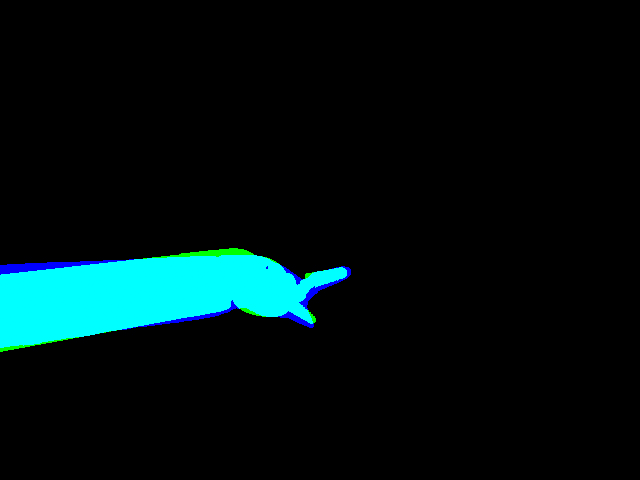
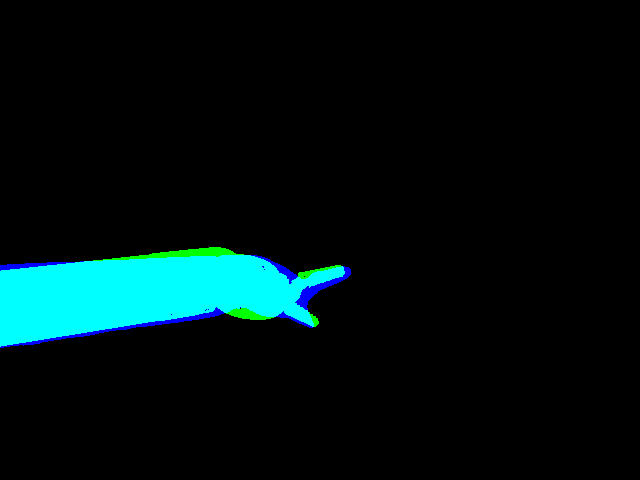
Integrate DHT loss into tracking

diff --git a/diffcali/eval_dvrk/trackers.py b/diffcali/eval_dvrk/trackers.py
@@ -15,6 +15,7 @@ from diffcali.utils.cylinder_projection_utils import (
     transform_points_b,
 )
 from diffcali.utils.detection_utils import detect_lines
+from diffcali.utils.dht_utils import DeepCylinderLoss
 
 from evotorch import Problem, SolutionBatch
 from evotorch.algorithms import SNES, XNES, CMAES
@@ -25,12 +26,13 @@ torch.set_default_dtype(torch.float32)
 
 
 # Loss settings
+USE_PTS_LOSS = True  # whether to use keypoint loss
+USE_CYD_LOSS = True # whether to use cylinder loss
+USE_DHT_LOSS = True and not USE_CYD_LOSS # whether to use DHT loss (if cylinder loss is not used)
+
 MSE_WEIGHT = 10.0  # weight for the MSE loss
 PTS_WEIGHT = 1e-2  # weight for the keypoint loss
-CYD_WEIGHT = 1e-2  # weight for the cylinder loss
-
-USE_PTS_LOSS = True  # whether to use keypoint loss
-USE_CYD_LOSS = False  # whether to use cylinder loss
+CYD_WEIGHT = 1e-1 if USE_DHT_LOSS else 1e-2 # weight for the cylinder loss
 
 
 def keypoint_loss_batch(keypoints_a, keypoints_b):
@@ -480,6 +482,7 @@ class PoseEstimationProblem(Problem):
 
         self.kpts_loss = USE_PTS_LOSS
         self.cylinder_loss = USE_CYD_LOSS
+        self.dht_loss = USE_DHT_LOSS
 
         self.mse_weight = MSE_WEIGHT  # weight for the MSE loss
         self.pts_weight = PTS_WEIGHT  # weight for the keypoint loss
@@ -612,6 +615,7 @@ class SimplePoseEstimationProblem(PoseEstimationProblem):
         super().__init__(model, robot_renderer, ref_mask, intr, p_local1, p_local2)
 
         self.joint_angles = joint_angles
+        self.DHT_loss = DeepCylinderLoss(img_size=(480, 640)) if self.dht_loss else None
 
     def update_problem(self, ref_mask, ref_keypoints, det_line_params, joint_angles):
         """
@@ -621,6 +625,11 @@ class SimplePoseEstimationProblem(PoseEstimationProblem):
         self.ref_keypoints = ref_keypoints
         self.det_line_params = det_line_params
         self.joint_angles = joint_angles
+
+        # Update the DHT loss with the reference mask
+        if self.dht_loss:
+            mask = ref_mask.repeat(3, 1, 1).unsqueeze(0)
+            self.DHT_loss.update_heatmap(mask)
 
         # Compute the robot mesh once and store it since the joint angles are fixed.
         self.verts, self.faces = self.robot_renderer.get_robot_verts_and_faces(joint_angles)
@@ -692,6 +701,31 @@ class SimplePoseEstimationProblem(PoseEstimationProblem):
                 radius,
             )  
 
+        elif self.dht_loss:
+            position = torch.zeros((B, 3), dtype=torch.float32, device=self.model.device)  # (B, 3)
+            direction = torch.zeros((B, 3), dtype=torch.float32, device=self.model.device)  # (B, 3)
+            direction[:, 2] = 1.0
+            pose_matrix_b = self.model.cTr_to_pose_matrix(cTr_batch).squeeze(0)  # shape(B, 4, 4)
+            radius = 0.0085 / 2
+
+            # get the projected cylinder lines parameters
+            ref_mask = self.ref_mask
+            intr = self.intr
+
+            _, cam_pts_3d_position = transform_points_b(position, pose_matrix_b, intr)
+            _, cam_pts_3d_norm = transform_points_b(direction, pose_matrix_b, intr)
+            cam_pts_3d_norm = torch.nn.functional.normalize(
+                cam_pts_3d_norm
+            )  # NORMALIZE !!!!!!
+
+            # print(f"checking shape of cylinder input: {cam_pts_3d_position.shape, cam_pts_3d_norm.shape}")  both [B,3]
+            e_1, e_2 = projectCylinderTorch(
+                cam_pts_3d_position, cam_pts_3d_norm, radius, self.fx, self.fy, self.px, self.py
+            )  # [B,2], [B,2]
+            projected_lines = torch.stack((e_1, e_2), dim=1)  # [B, 2, 2]
+            
+            cylinder_val = self.DHT_loss(projected_lines) # maximize in the heatmap
+
         else:
             cylinder_val = 0.0
 
@@ -704,7 +738,7 @@ class EvoTracker(Tracker):
     def __init__(
         self, model, robot_renderer, init_cTr, init_joint_angles, 
         num_iters=5, intr=None, p_local1=None, p_local2=None, 
-        stdev_init=5e-3, use_SNES=False, optimize_joint_angles=True
+        stdev_init=5e-3, use_SNES=False, optimize_joint_angles=False
     ):
         super().__init__(model, robot_renderer, init_cTr, init_joint_angles, num_iters, intr, p_local1, p_local2)
 

diff --git a/diffcali/utils/dht_utils.py b/diffcali/utils/dht_utils.py
@@ -48,11 +48,14 @@ class DeepCylinderLoss:
             ]
         )
 
-        self.update_heatmap(mask)
+        if mask is not None:
+            self.update_heatmap(mask)
 
     def update_heatmap(self, mask):
+        self.img_size = mask.shape[2:]  # Get the original image size
         self.heatmap = self.model(self.transform(mask)).squeeze()
-        # self.heatmap = torch.exp(self.heatmap / 50.) 
+        # self.heatmap = torch.exp(-self.heatmap / 50.)
+        self.heatmap = torch.sigmoid(-self.heatmap / 10.) 
 
     def line2ends(self, lines):
         """
@@ -159,6 +162,13 @@ class DeepCylinderLoss:
         if mask_in_bounds.any():
             loss[mask_in_bounds] = self.heatmap[idx[mask_in_bounds, 0].long(), idx[mask_in_bounds, 1].long()]
 
+        # # Plot the heatmap and all evaluated poitns in bound
+        # import matplotlib.pyplot as plt
+        # plt.imshow(self.heatmap.squeeze().cpu().numpy(), cmap="jet")
+        # print(idx[:,1].cpu().numpy())
+        # plt.scatter(idx[:,1].cpu().numpy(), idx[:,0].cpu().numpy(), s=1, c='b')
+        # plt.show()
+
         # Split the loss back into two batches
         loss_1, loss_2 = loss[:B], loss[B:]
         
@@ -172,9 +182,17 @@ if __name__ == "__main__":
     model_dir = "./deep_hough_transform/dht_r50_nkl_d97b97138.pth"
     mask_dir = "./deep_hough_transform/data/DVRK/7.jpg"
     
+    # img = cv2.imread(mask_dir, cv2.IMREAD_GRAYSCALE)
+    # mask = transforms.ToTensor()(img).cuda() 
+    # mask = mask.repeat(3, 1, 1).unsqueeze(0)
+    # img = mask.squeeze().permute(1, 2, 0).cpu().numpy() * 255
+
     img = cv2.imread(mask_dir, cv2.IMREAD_COLOR)
-    img = cv2.cvtColor(img, cv2.COLOR_BGR2RGB)  # Convert BGR to RGB
-    mask = transforms.ToTensor()(img).unsqueeze(0).cuda() 
+    img = cv2.cvtColor(img, cv2.COLOR_RGB2BGR)
+    mask = transforms.ToTensor()(img).cuda()
+    mask = mask.unsqueeze(0)  # Add batch dimension
+
+    # print(torch.abs(mask - mask2).sum().item())
 
     with torch.no_grad():
         DHT_loss = DeepCylinderLoss(model_dir=model_dir, mask=mask, img_size=mask.shape[2:])
